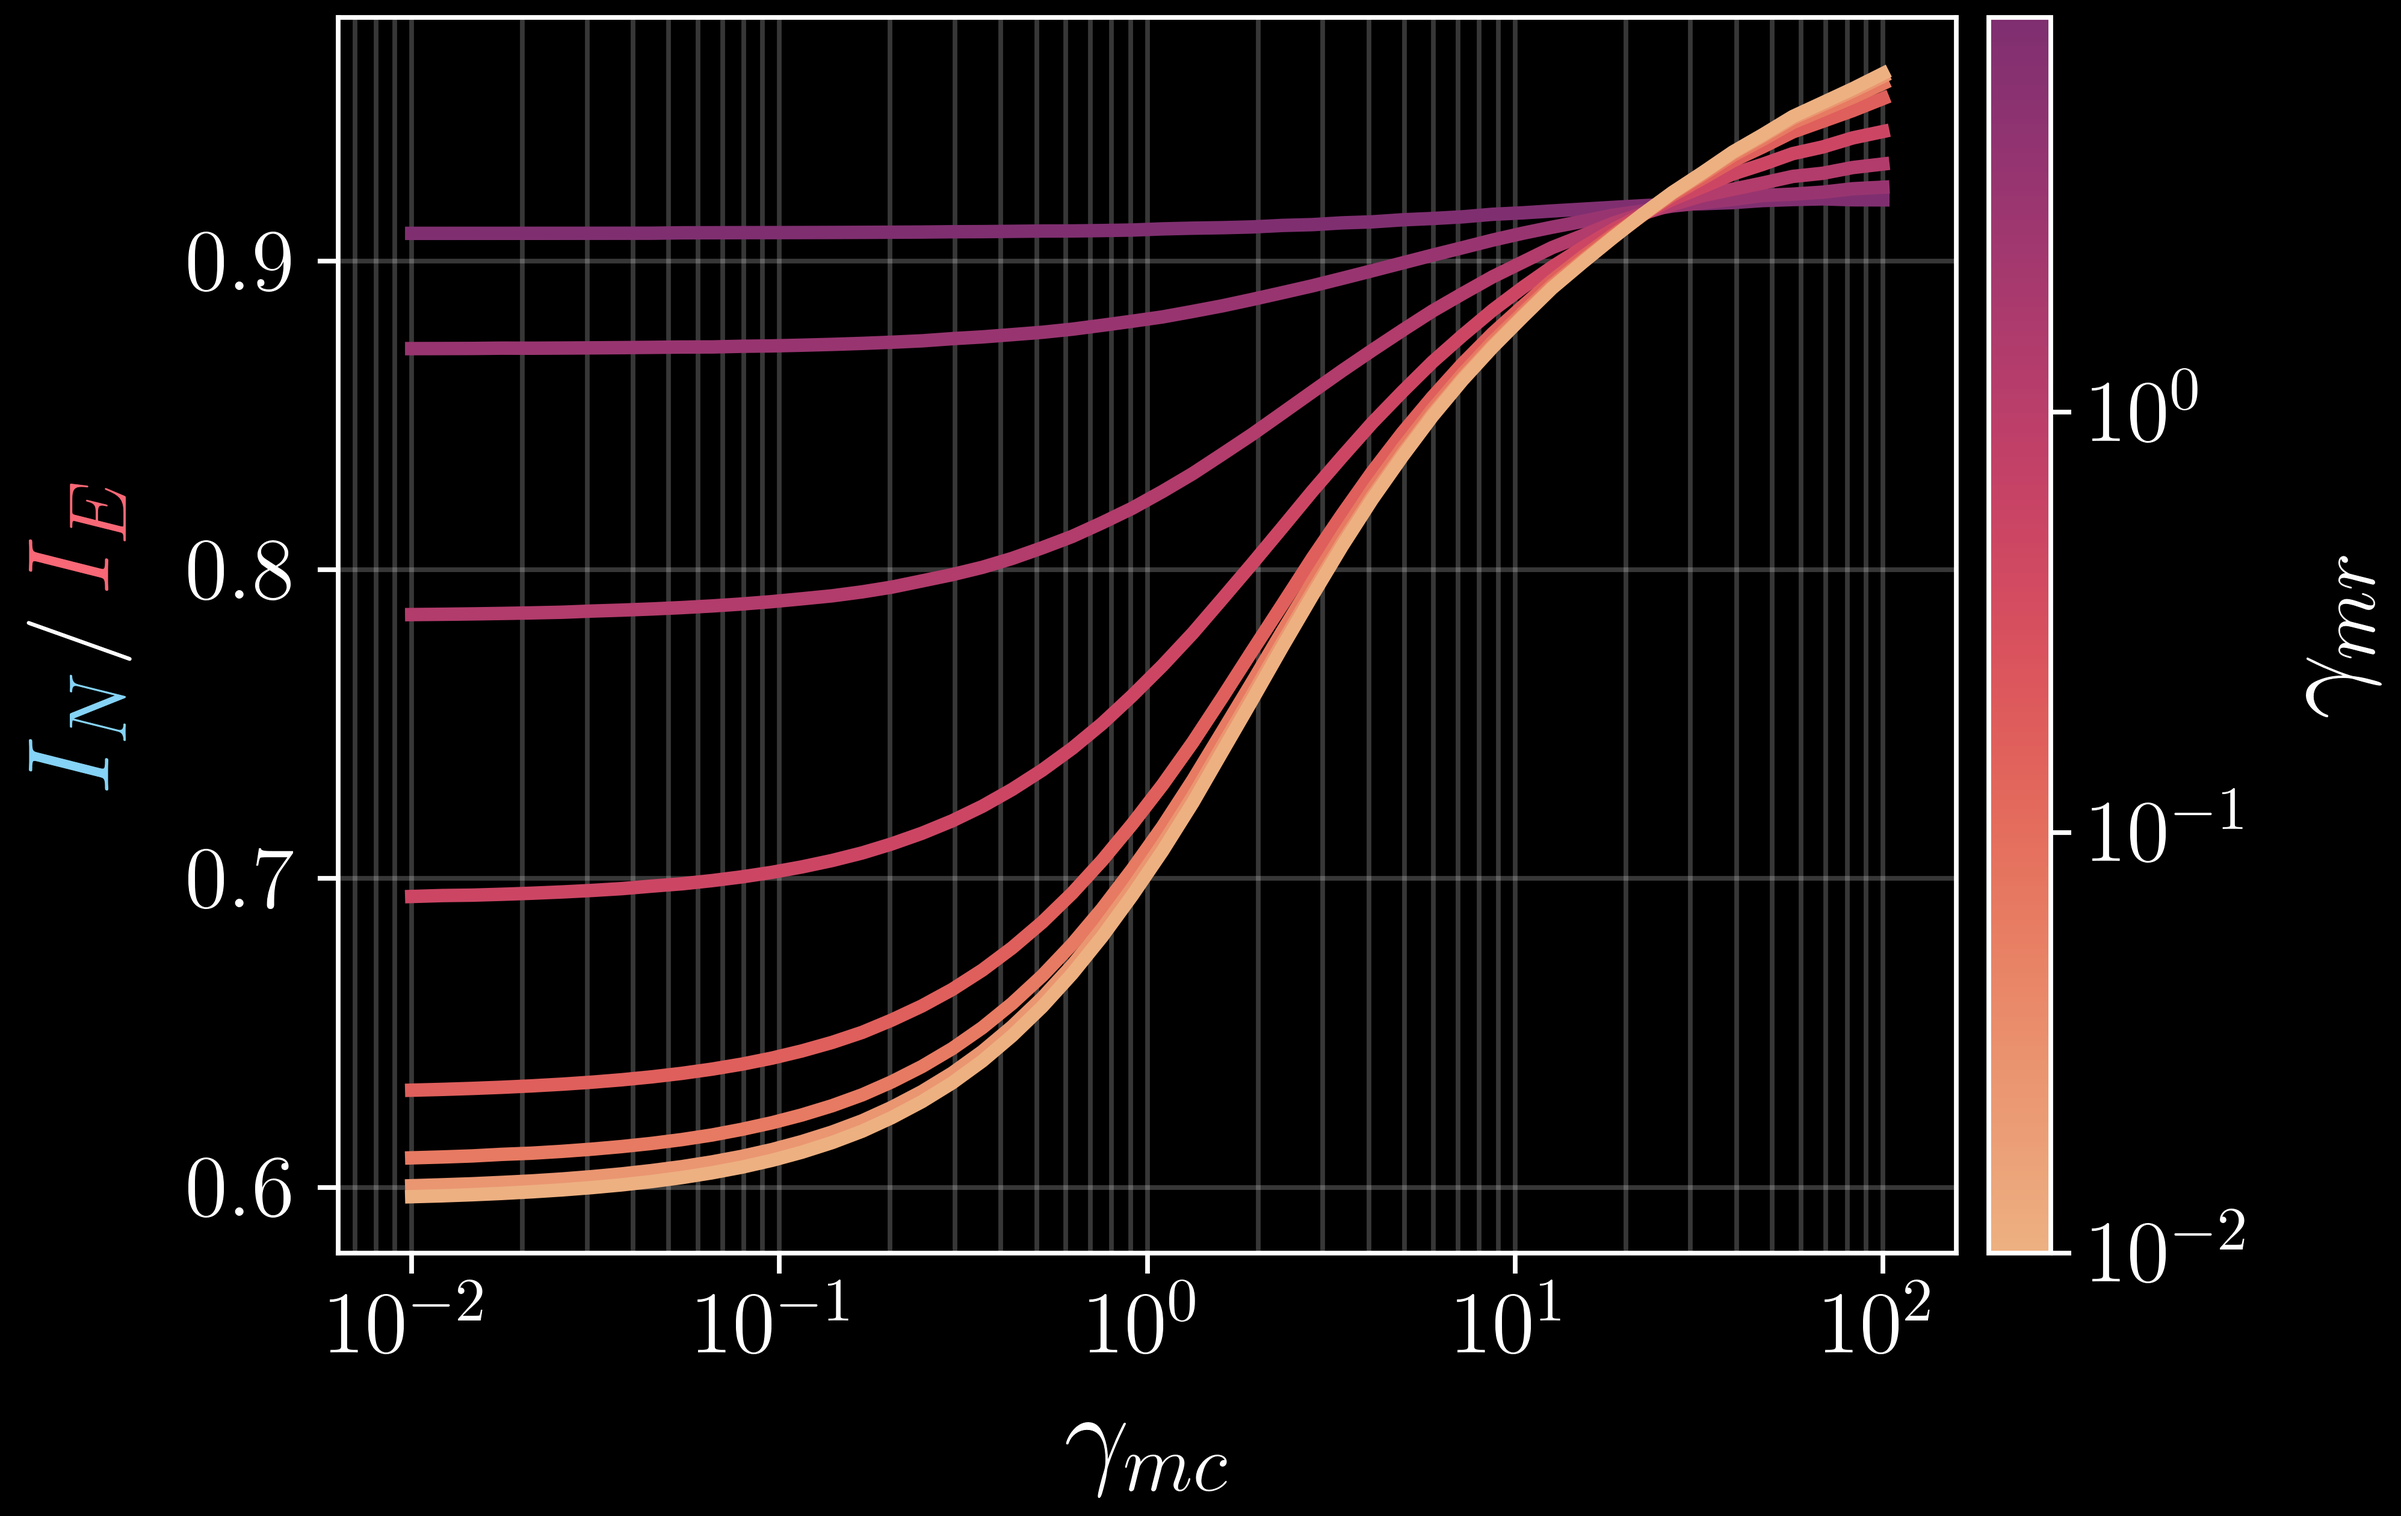
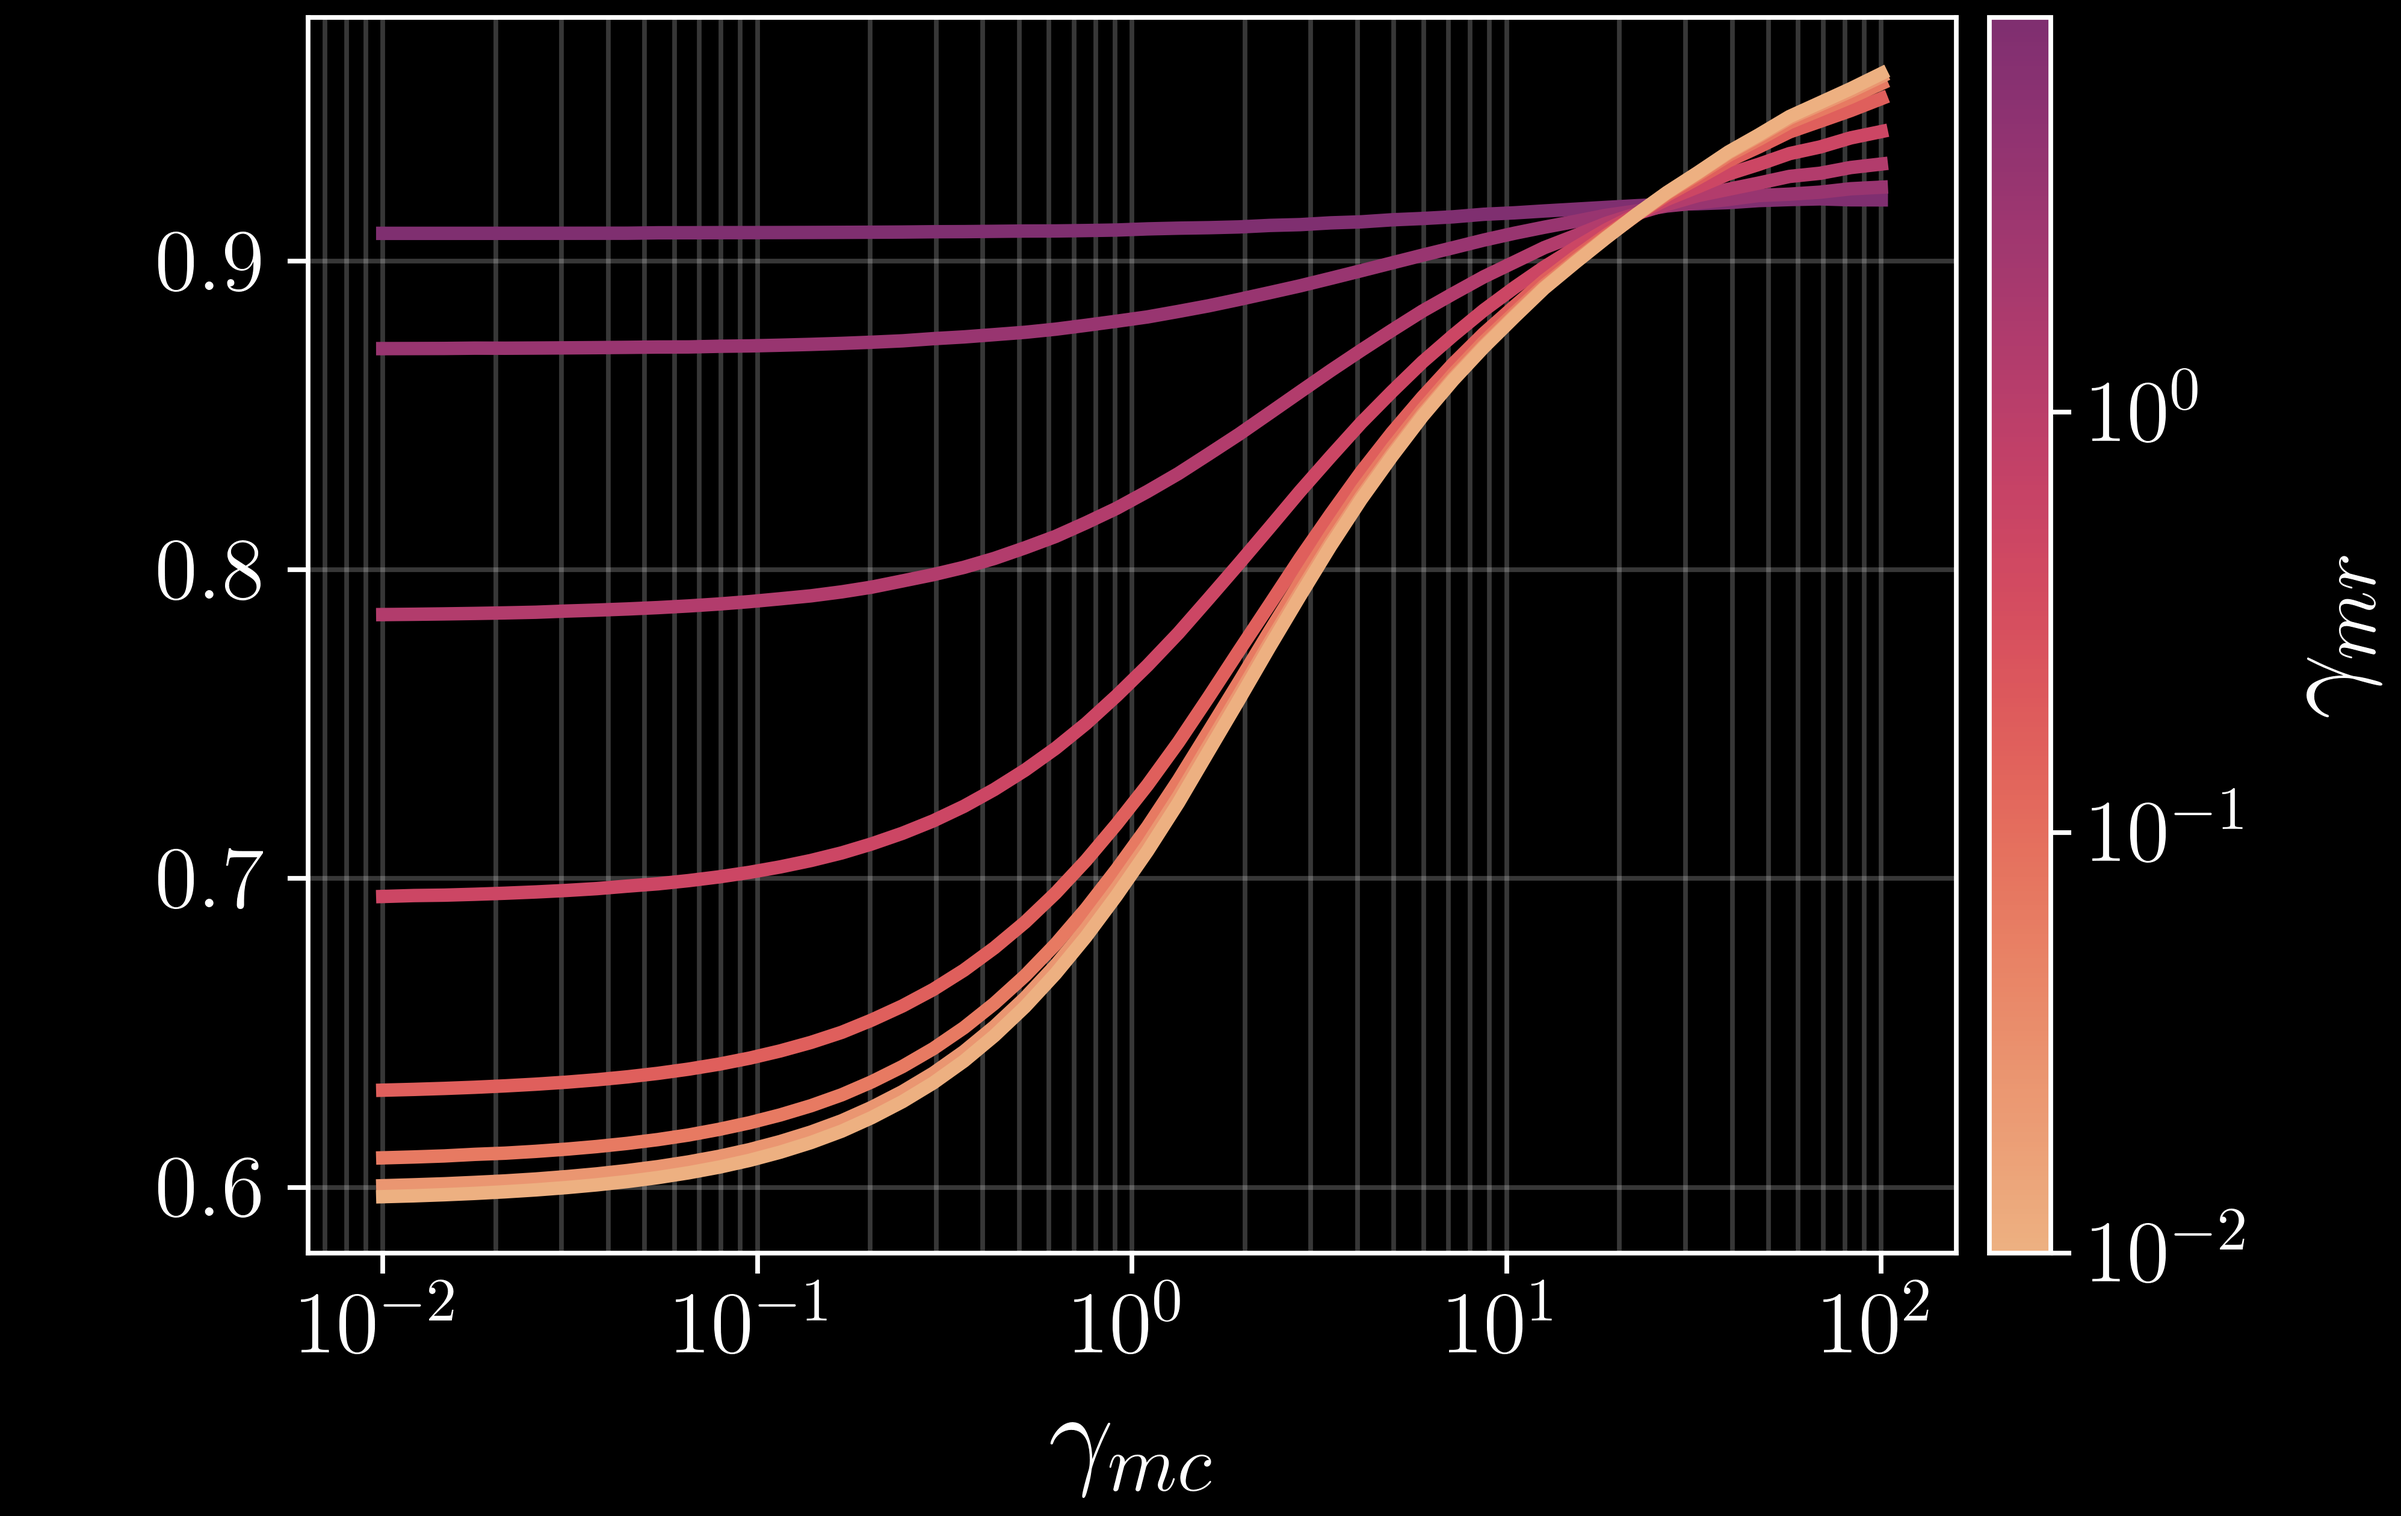
study plots

Changed region(s): [[0.0, 0.0, 0.7769, 0.8976], [0.4351, 0.9286, 0.5283, 0.9905], [0.0, 0.4643, 0.0622, 0.5262]]

diff --git a/projects/simple_geometries/paper/plot_intersection_ie_over_in_vs_gamma_mc.py b/projects/simple_geometries/paper/plot_intersection_ie_over_in_vs_gamma_mc.py
@@ -288,48 +288,12 @@ def main() -> None:
 
     ax.set_xscale("log")
     ax.set_xlabel(r"$\gamma_{mc}$")
-    ax.set_ylabel("")
+    ax.set_ylabel(r"$I_E / I_N$")
     ax.grid(alpha=0.22, which="both", color="white")
     ax.tick_params(colors="white")
     ax.xaxis.label.set_color("white")
     for spine in ax.spines.values():
         spine.set_color("white")
-
-    # Colored y-label matching intersection contact colors.
-    xlab = -0.16
-    ax.text(
-        xlab,
-        0.58,
-        r"$I_E$",
-        transform=ax.transAxes,
-        rotation=90,
-        va="center",
-        ha="center",
-        color=EAST_COLOR,
-        fontsize=20,
-    )
-    ax.text(
-        xlab,
-        0.50,
-        r"$/$",
-        transform=ax.transAxes,
-        rotation=90,
-        va="center",
-        ha="center",
-        color="white",
-        fontsize=18,
-    )
-    ax.text(
-        xlab,
-        0.42,
-        r"$I_N$",
-        transform=ax.transAxes,
-        rotation=90,
-        va="center",
-        ha="center",
-        color=NORTH_COLOR,
-        fontsize=20,
-    )
 
     sm = ScalarMappable(norm=norm, cmap=cmap)
     sm.set_array([])
